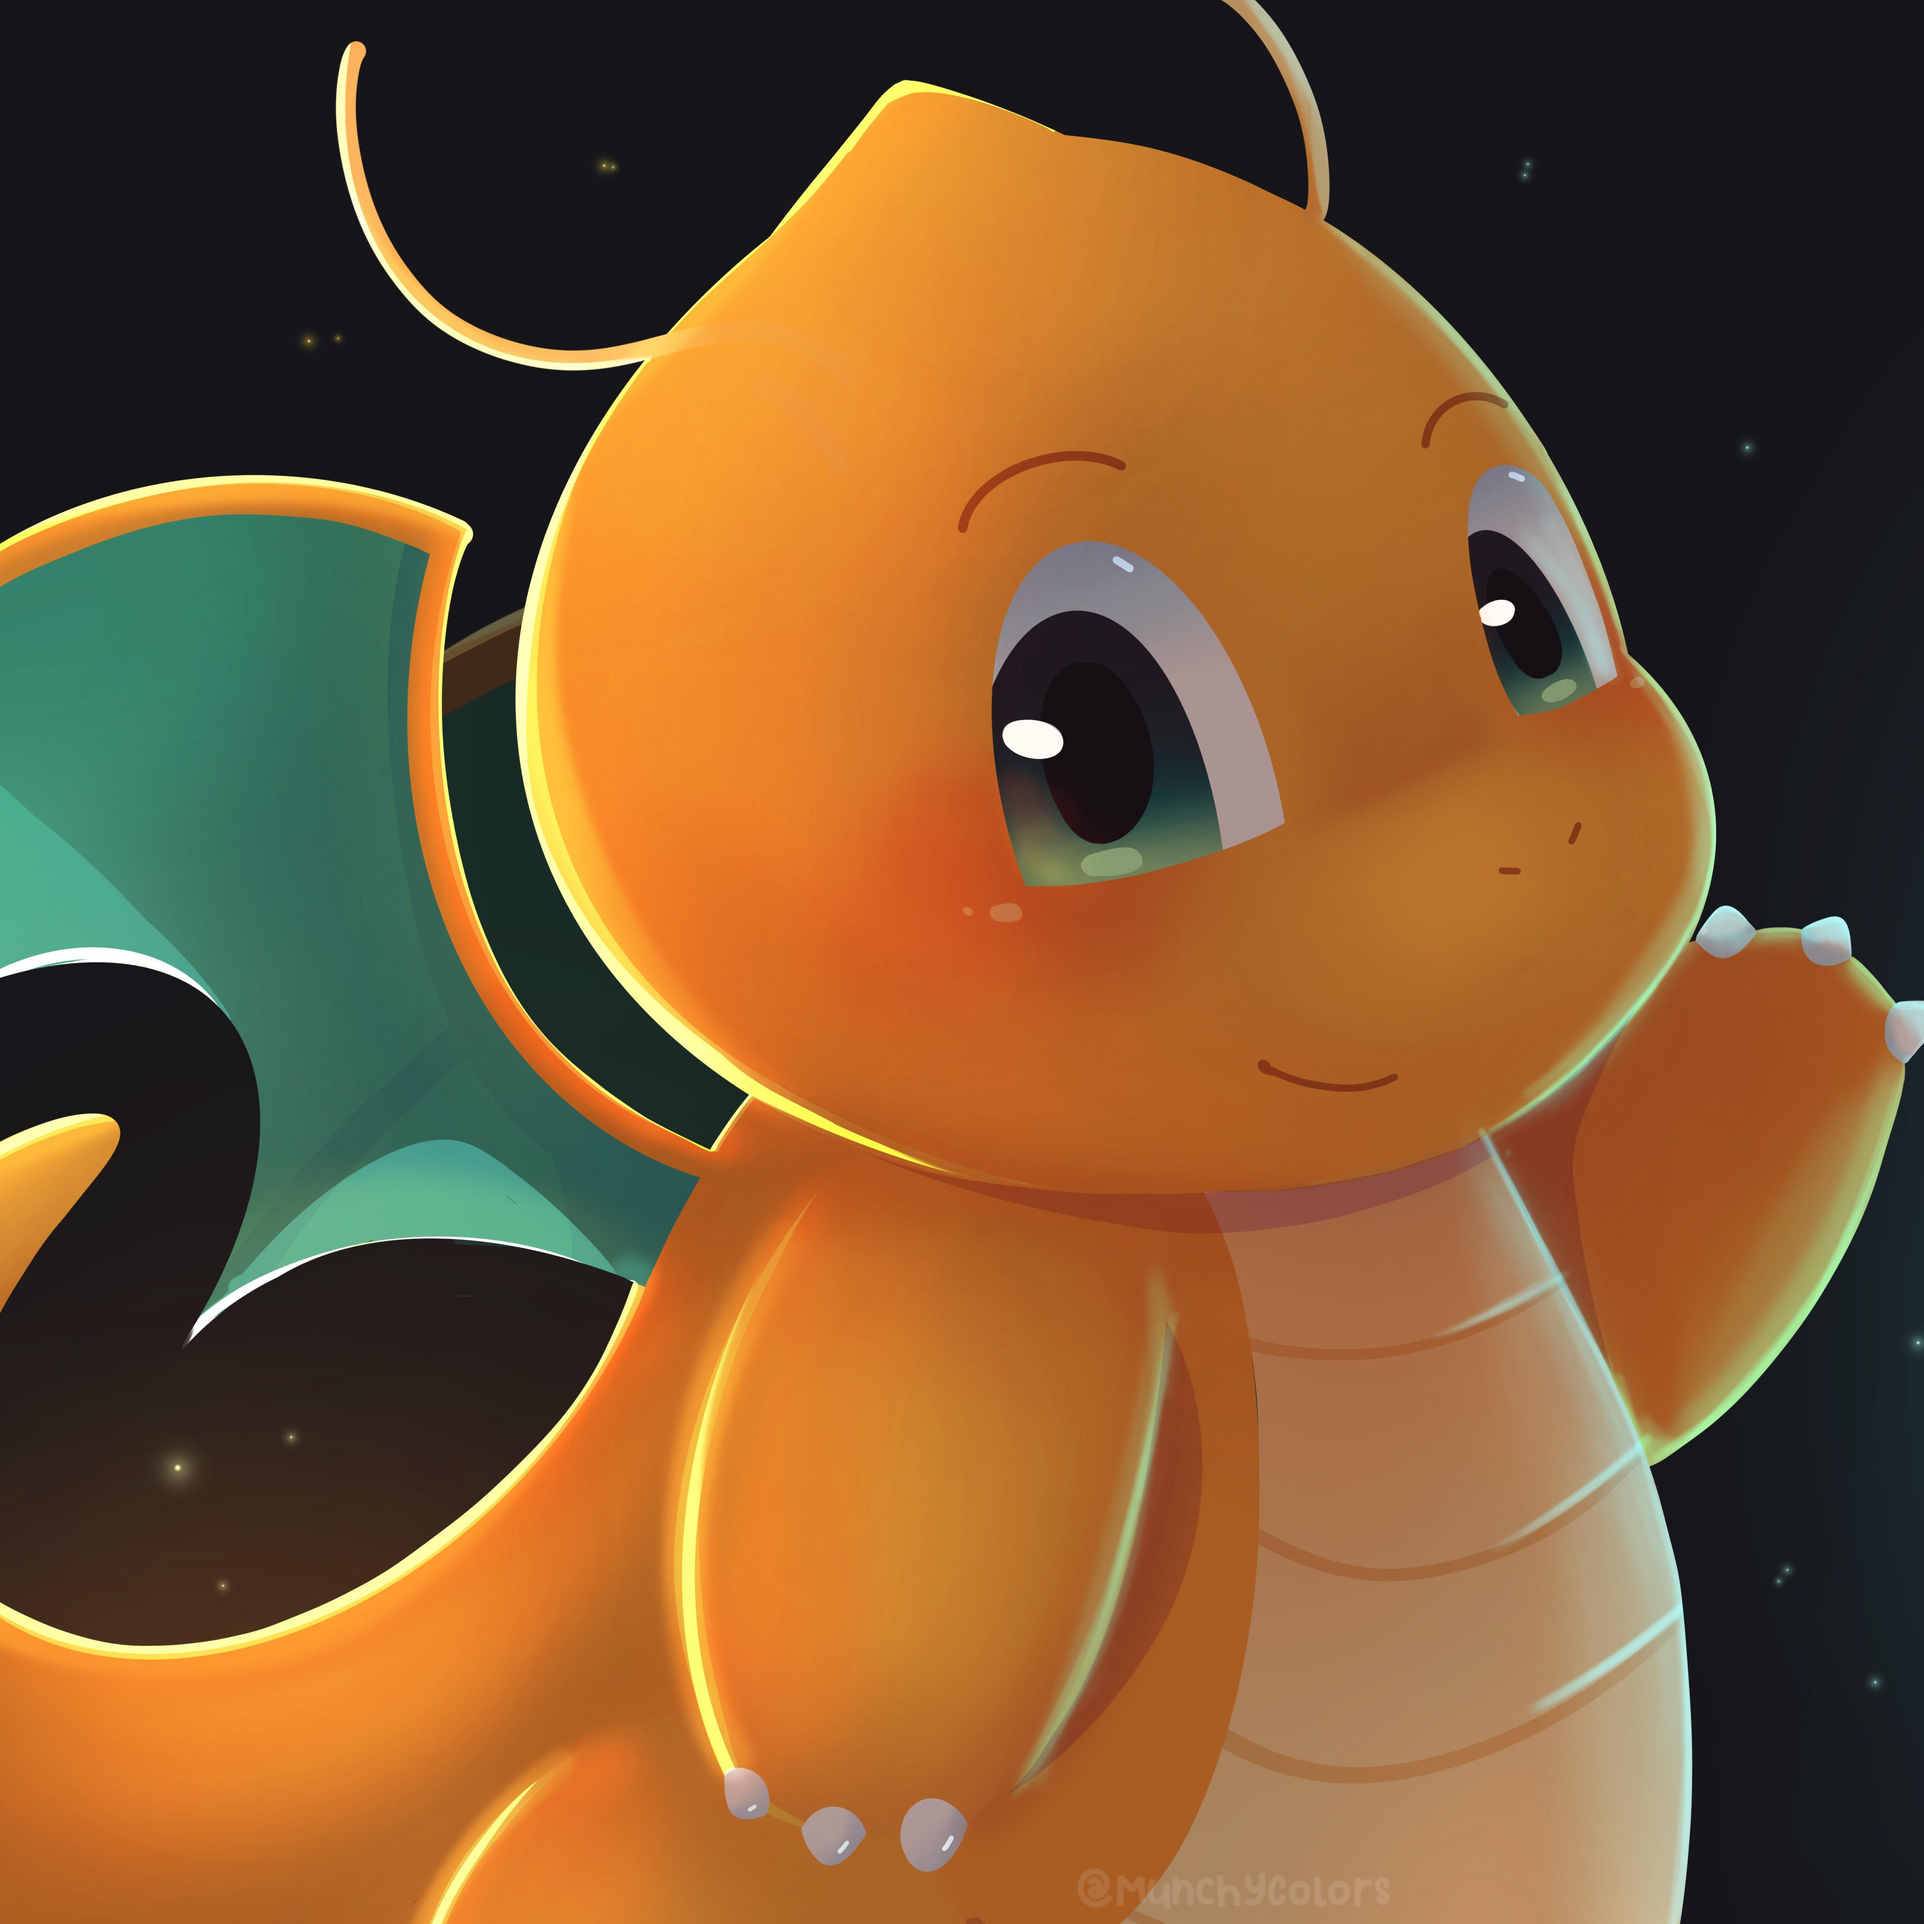
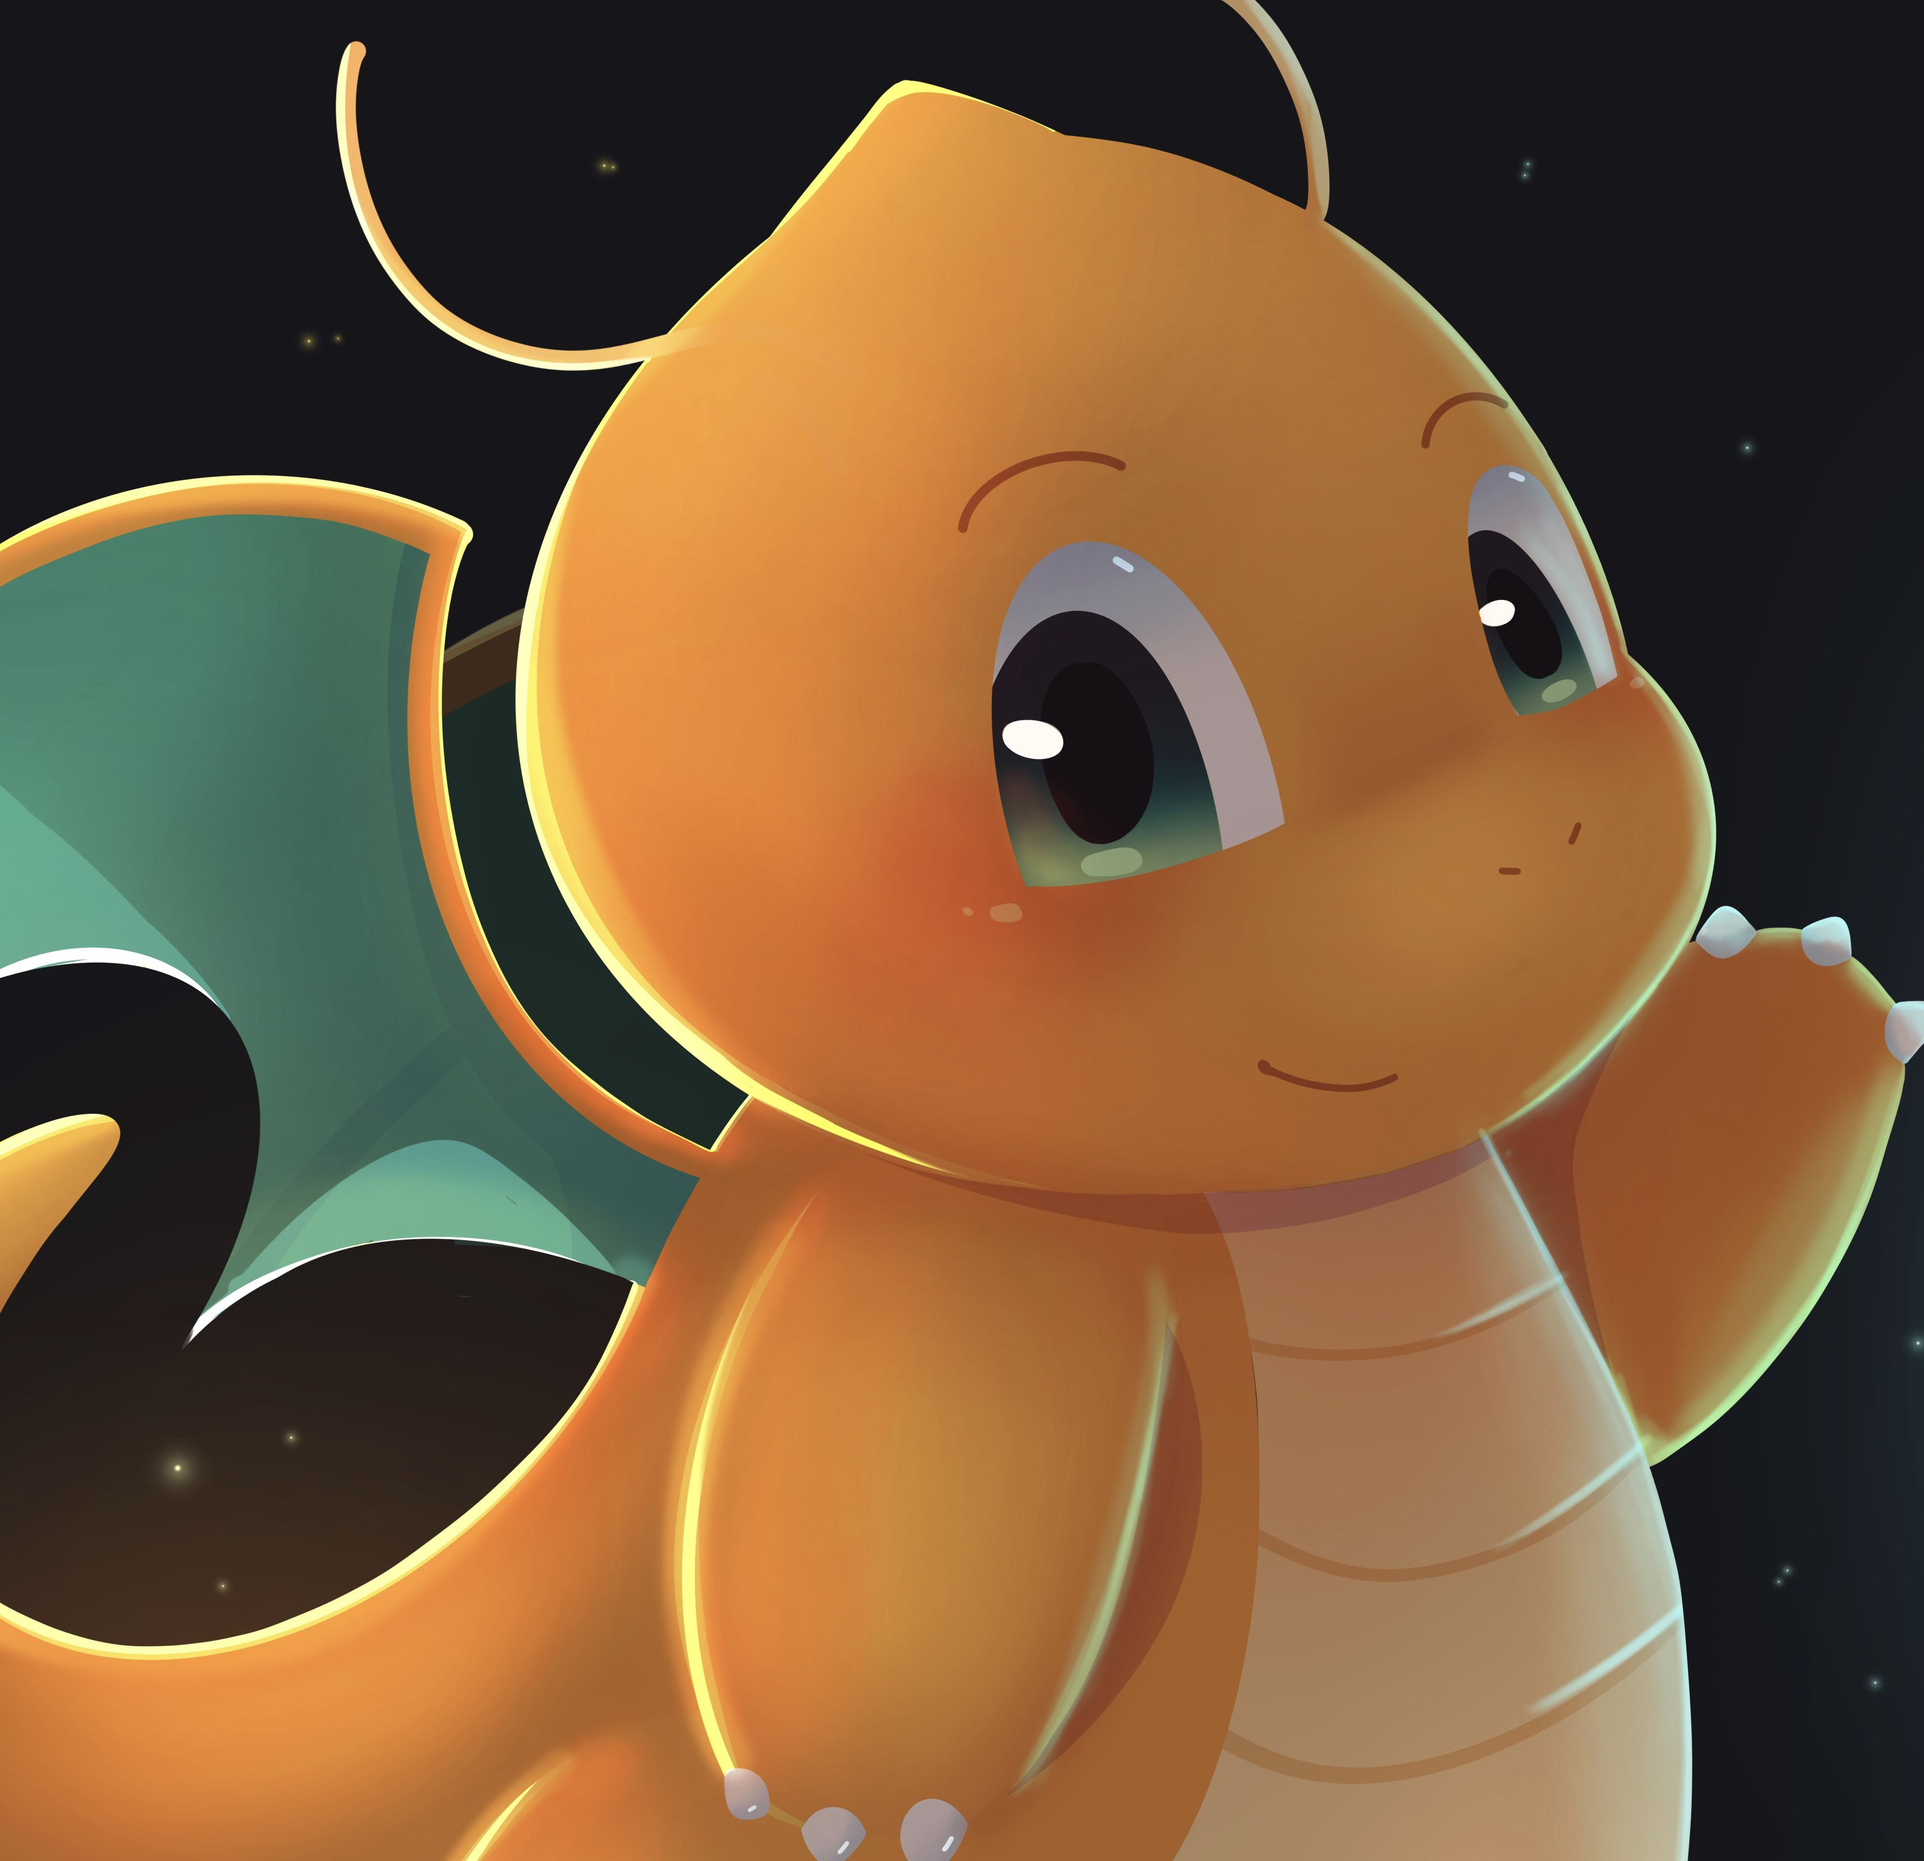
v1.0.1

diff --git a/client/reducers/expenseSlice.js b/client/reducers/expenseSlice.js
@@ -33,27 +33,51 @@ const expenseSlice = createSlice({
 
     ADD_EXPENSE: (state, action) => {
       let num = parseFloat(Number(action.payload).toFixed(2))
-      //1.no user select and no payer, it only add to the total expense
-      //2.no user select and has a payer, caculate for all 
-      //3.if there is user selected and payer exist, it will calulate the selected user
-      //4.if there is user selected and payer is not includes, wont calulate
-      //5.payer and member can not be the same one
-      if(num !== 0 && !isNaN(num)){
+      const payer = state.payer.trim()
+      //1.no user select and no payer, it only add to the total expense ✔
+      //2.no user select and has a payer, caculate for all ✔
+      //3.if there is user selected and payer exist, it will calulate the selected user ✔
+      //4.if there is user selected and payer is not includes, wont calulate ✔
+      //5.payer and member can not count twice ✔
+      if(num !== 0 && !isNaN(num) && !state.countUser.length && payer == ''){
         state.expenseList.push(num);
         state.totalExpense += num;
         state.newExpense = '';
       }
-      if(state.countUser){}
-      if(!Object.keys(state.userList).includes(state.payer)){
+      else if(num !== 0 && !isNaN(num) && !state.countUser.length && Object.keys(state.userList).includes(payer)){
         let avg = num / (Object.keys(state.userList).length)
         avg = parseFloat(Number(avg).toFixed(2))
-        Object.keys(state.userList).map(el => state.userList[el] += avg)
+        Object.keys(state.userList).map(el => {
+          if(payer === el){
+            state.userList[el] -= avg * (Object.keys(state.userList).length - 1)
+          }
+          else state.userList[el] += avg
+        })
+        state.expenseList.push(num);
+        state.totalExpense += num;
+        state.newExpense = '';
+        state.payer = '';
       }
-      if(Object.keys(state.userList).includes(state.payer)){
-        let avg = num / (state.countUser.length)
+      //3.if there is user selected and payer exist, it will calulate the selected user
+      else if(num !== 0 && !isNaN(num) && Object.keys(state.userList).includes(payer)){
+        let length = state.countUser.length 
+        if(state.countUser.includes(payer)) length--
+        let avg = num / (length + 1)
         avg = parseFloat(Number(avg).toFixed(2))
-        Object.keys(state.userList).map(el => state.userList[el] += avg)
-
+        console.log(avg)
+        Object.keys(state.userList).map(el => {
+          if(payer === el){
+            state.userList[el] -= avg * (state.countUser.length)
+          }
+          if(state.countUser.includes(el)){
+            state.userList[el] += avg
+          }
+        })
+        state.expenseList.push(num);
+        state.totalExpense += num;
+        state.newExpense = '';
+        state.payer = '';
+        state.countUser = [];
       }
     },
 

diff --git a/client/styles.scss b/client/styles.scss
@@ -13,6 +13,13 @@ $lightGreen: rgb(238, 252, 238);
   color:black;
 }
 
+body {
+  background-image: url('./dragonite.jpeg');
+  background-repeat: no-repeat;
+  background-attachment: fixed;  
+  background-size: cover;
+}
+
 h1 {
   font-family: "Zen Dots", sans-serif;
   text-align: center;
@@ -28,7 +35,7 @@ h3 {
 
 .app {
   max-width: 60em;
-  margin: 0 auto;
+  margin: 10em auto;
   padding: $p1;
   box-shadow: $highShadow;
   border-radius: 5px;

diff --git a/client/components/User.jsx b/client/components/User.jsx
@@ -9,7 +9,7 @@ const User = (props) => {
     <div className="user" id={props.id + 1}>{props.id + 1}
         <button className='button' type="submit" 
       onClick={() => dispatch(COUNT_USER(props.user))}>{props.user}</button>
-        <span>average: {props.cost}</span>
+        <span>owe: {props.cost}</span>
     </div>
   );
 }
